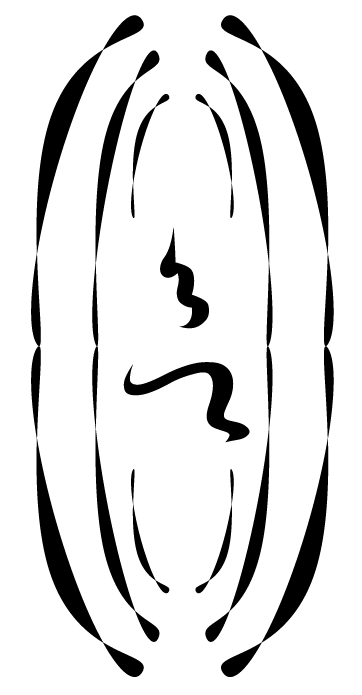
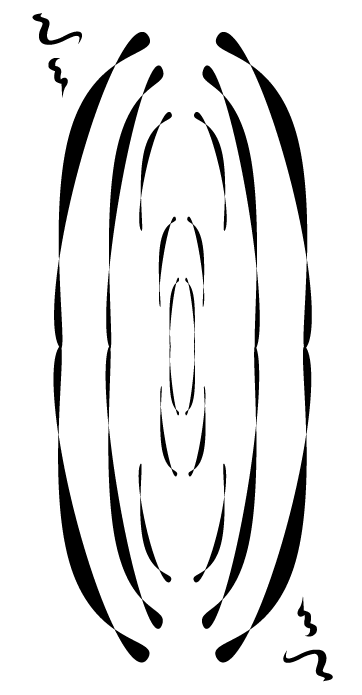
fix

Changed region(s): [[0.3343, 0.0, 0.942, 0.9971], [0.0608, 0.0, 0.4862, 0.9971], [0.5166, 0.6647, 0.547, 0.695]]

diff --git a/app/cao/js/app.js b/app/cao/js/app.js
@@ -306,6 +306,7 @@ function setSettlementView(active) {
 function resetSessionPhase() {
   sessionCompleted = false;
   completedSnapshot = null;
+  allowPracticeUnload = false;
   setSettlementView(false);
   if (el.btnSessionAction) el.btnSessionAction.disabled = false;
   if (el.btnRefresh) el.btnRefresh.disabled = false;
@@ -475,6 +476,30 @@ function pickWeighted(pool, weights) {
 const NO_REPEAT_LIBRARY_MIN = 50;
 /** 本轮已完成（含当前字）达到此数后允许重复 */
 const NO_REPEAT_UNTIL_COMPLETED = 50;
+
+/** 本轮已定稿字数超过此值时，刷新/关闭页面前确认 */
+const PRACTICE_UNLOAD_WARN_AFTER = 3;
+/** 允许离开（例如结算写入成功后跳转） */
+let allowPracticeUnload = false;
+
+/** 本轮已定稿（完成并进入下一字）的字数 */
+function getFinalizedStrokeCount() {
+  if (sessionCompleted && completedSnapshot) {
+    return Array.isArray(completedSnapshot.strokes) ? completedSnapshot.strokes.length : 0;
+  }
+  return Array.isArray(session?.strokes) ? session.strokes.length : 0;
+}
+
+function shouldWarnPracticeUnload() {
+  if (allowPracticeUnload) return false;
+  return getFinalizedStrokeCount() > PRACTICE_UNLOAD_WARN_AFTER;
+}
+
+function onPracticeBeforeUnload(event) {
+  if (!shouldWarnPracticeUnload()) return;
+  event.preventDefault();
+  event.returnValue = '';
+}
 
 /** 本轮已完成字数：已定稿 strokes + 当前进行中的字 */
 function getSessionCompletedCount() {
@@ -1040,6 +1065,7 @@ async function finishSettlementAndGoToLevel() {
     const uid = practiceUserId || loadActiveUserId() || USER_MERGE_DEFAULT_USER_ID;
     await savePracticeSessionToLocal(handle, snapshot, uid);
     void refreshPracticeUserBadge();
+    allowPracticeUnload = true;
     navigateToUserLevelPage();
     navigated = true;
   } catch (error) {
@@ -1084,6 +1110,39 @@ function onSecondaryFooterClick() {
   }
 }
 
+/** 输入框 / 对话框打开时不响应练字快捷键 */
+function isPracticeHotkeyBlocked() {
+  if (document.querySelector('dialog[open]')) return true;
+  const active = document.activeElement;
+  if (!active) return false;
+  const tag = active.tagName;
+  if (tag === 'INPUT' || tag === 'TEXTAREA' || tag === 'SELECT') return true;
+  if (active.isContentEditable) return true;
+  return false;
+}
+
+function onPracticeHotkey(event) {
+  if (isPracticeHotkeyBlocked()) return;
+  // 结算态：快捷键仅用于练字进行中
+  if (sessionCompleted) return;
+
+  const key = event.key;
+  if (key === ' ') {
+    event.preventDefault();
+    onPrimaryFooterClick();
+    return;
+  }
+  if (key === 'j' || key === 'J' || key === 'k' || key === 'K') {
+    event.preventDefault();
+    onSecondaryFooterClick();
+    return;
+  }
+  if (key === 'Enter') {
+    event.preventDefault();
+    onSessionActionClick();
+  }
+}
+
 /** 打开快照查看面板 */
 function openSnapshotView() {
   const snapshot = getSnapshotForExport();
@@ -1115,6 +1174,8 @@ el.btnSettlementCopy?.addEventListener('click', () => {
   void copySettlementResult(el.btnSettlementCopy);
 });
 el.btnSessionAction?.addEventListener('click', onSessionActionClick);
+document.addEventListener('keydown', onPracticeHotkey);
+window.addEventListener('beforeunload', onPracticeBeforeUnload);
 el.btnShow.addEventListener('click', toggleGlyph);
 el.btnScript.addEventListener('click', (event) => {
   event.stopPropagation();

diff --git a/app/cao/js/zi-catalog-cao.js b/app/cao/js/zi-catalog-cao.js
@@ -21,6 +21,7 @@ function caoZi(char, extras = {}) {
 /**
  * 默认草体字库（顺序即练习默认顺序）
  * alternatives：常见简繁 / 异体；未列则仅主字
+ * 所有unicode必须为正确unicode！！！
  */
 const DEFAULT_ZI_CAO = createZiList([
   caoZi('是', { unicode: 'U+662F', calligrapher: '孙过庭', work: '书谱' }),
@@ -118,6 +119,26 @@ const DEFAULT_ZI_CAO = createZiList([
   caoZi('在', { unicode: 'U+5728' }),
   caoZi('遊', { unicode: 'U+904A' }),
   caoZi('當', { unicode: 'U+7576', alternatives: ['当'] }),
+  caoZi('頭', { unicode: 'U+982D', alternatives: ['头'] }),
+  caoZi('尋', { unicode: 'U+5C0B',  alternatives: ['寻'], calligrapher: '孙过庭', work: '书谱' }),
+  caoZi('動', { unicode: 'U+52A8',  alternatives: ['动'], calligrapher: '孙过庭', work: '书谱' }),
+  caoZi('非', { unicode: 'U+975E', calligrapher: '孙过庭', work: '书谱' }),
+  caoZi('继', { unicode: 'U+7EE7', calligrapher: '孙过庭', work: '书谱' }),
+  caoZi('虚', { unicode: 'U+865A', alternatives: ['虛'], calligrapher: '孙过庭', work: '书谱' }),
+  caoZi('果', { unicode: 'U+679C',  calligrapher: '孙过庭', work: '书谱' }),
+  caoZi('段', { unicode: 'U+6BB5',  calligrapher: '王羲之', work: '淳化阁帖' }),
+  caoZi('差', { unicode: 'U+5DEE',  calligrapher: '孙过庭', work: '书谱'}),
+  caoZi('宜', { unicode: 'U+5B9C',  calligrapher: '孙过庭', work: '书谱'}),
+  caoZi('質', { unicode: 'U+8CEA',  alternatives: ['质'], calligrapher: '孙过庭', work: '书谱'}),
+  caoZi('適', { unicode: 'U+9069',  alternatives: ['适'], calligrapher: '孙过庭', work: '书谱'}),
+  caoZi('寫', { unicode: 'U+5BEB',  alternatives: ['写'], calligrapher: '孙过庭', work: '书谱'}),
+  caoZi('勝', { unicode: 'U+52DD',  alternatives: ['胜'], calligrapher: '孙过庭', work: '书谱'}),
+  caoZi('改', { unicode: 'U+6539',  calligrapher: '孙过庭', work: '书谱'}),
+  caoZi('綵', { unicode: 'U+7DB5',  alternatives: ['綵'], calligrapher: '懷素', work: '停云馆帖'}),
+  caoZi('遠', { unicode: 'U+9060',  alternatives: ['远'], calligrapher: '孙过庭', work: '书谱'}),
+  
+  caoZi('皆', { unicode: 'U+7686', calligrapher: '懷素', work: '真草千字文'}),
+  caoZi('合', { unicode: 'U+5408', calligrapher: '孙过庭', work: '书谱'}),
 
 
 ]);

diff --git a/app/cao/js/card-bases.js b/app/cao/js/card-bases.js
@@ -11,4 +11,5 @@ registerCardBaseLibrary([
   createCardBase({ id: 'cb002', name: '直纹', weight: 1 }),
   createCardBase({ id: 'cb003', name: '方点', weight: 1 }),
   createCardBase({ id: 'cb004', name: '折线', weight: 1 }),
+  createCardBase({ id: 'cb005', name: '圆形重叠', weight: 1 }),
 ]);
